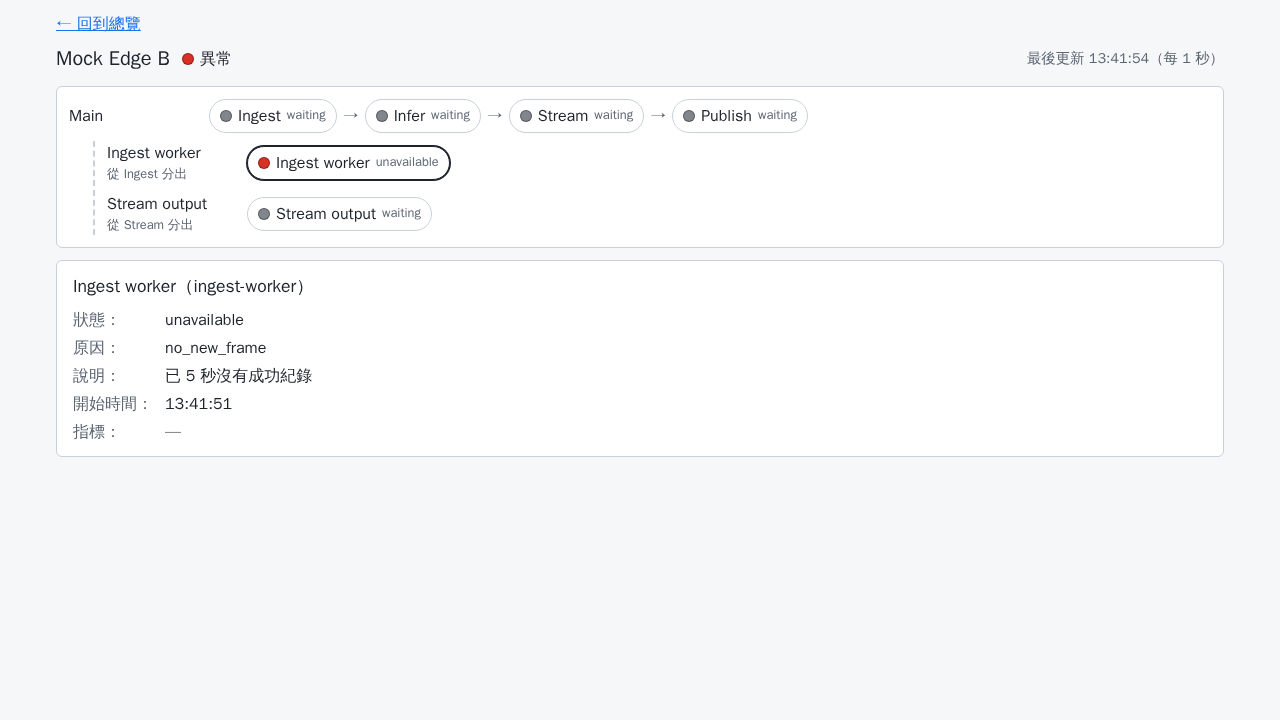
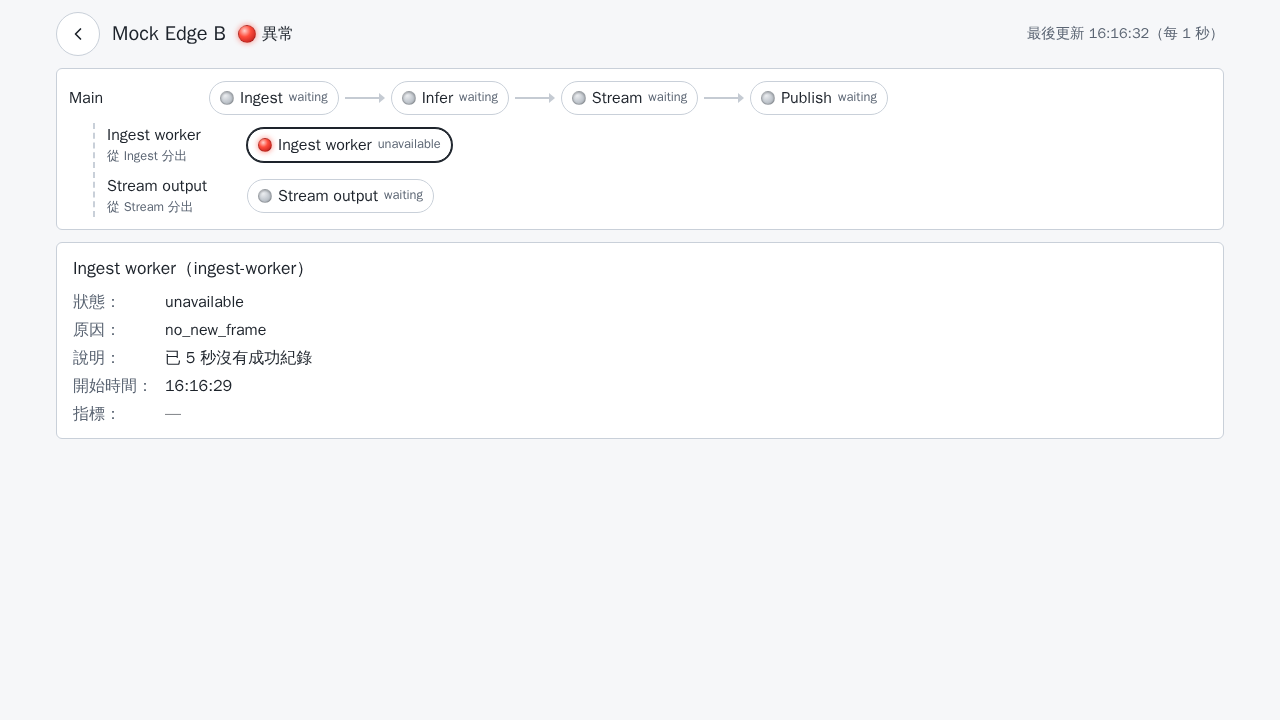
docs: v1.8 README screens, DEPLOY CSP note and regenerated screenshots

Changed region(s): [[0.0312, 0.1222, 0.9688, 0.6111], [0.0312, 0.0, 0.6875, 0.3056], [0.7812, 0.0306, 0.9375, 0.0917]]

diff --git a/README.md b/README.md
@@ -112,6 +112,15 @@ docker compose -f deploy/docker-compose.dev.yml down
 ```
 
 - 畫面以網址的 hash 區分：`#/` 是服務總覽（第 N 頁為 `#/?page=N`），`#/targets/<id>` 是服務畫面，例如 `http://127.0.0.1:18000/#/targets/mock-edge-b`。上一頁、下一頁、重新整理和書籤都能用。
+- 畫面（SPEC §7.1）：
+  - 燈號是發光的號誌風格，綠、黃、紅亮燈有光暈，灰色是沒亮的燈；狀態文字照常顯示，顏色不是唯一線索。
+  - 總覽卡片依總體狀態使用淡色底（正常白底、注意淡黃、異常淡紅、離線或等待淡灰）。
+  - 服務畫面左上角的圓形箭頭圖示是「回到總覽」。
+  - 主迴圈（`sequential` 且 2 個以上節點的 lane）全綠時，光點沿箭頭流動、經過的節點短暫變亮。系統設定減少動態效果或寬度 640px 以下時不流動。光點是裝飾，速度固定，不代表實際的處理量。
+
+| 服務總覽 | 服務畫面（正常） |
+|---|---|
+| ![服務總覽](docs/acceptance/screenshots/overview.png) | ![服務畫面](docs/acceptance/screenshots/normal.png) |
 
 - 專案名稱固定為 `smart-health-dev`，網路為 `smart-health-dev_default`。
 - 包含 `health-app`、`mock-edge-a`、`mock-edge-b`、`mock-api` 與 7 個 `raw-*`（每個 raw_mock 模式一個）。每個 service 都有 healthcheck，`--wait` 會等到全部 healthy。
@@ -138,7 +147,7 @@ docker compose -f deploy/docker-compose.dev.yml down
 - 掛載 `/var/run/docker.sock` 並加入 socket 的群組，讓測試透過 Docker Engine API 停止與恢復 `mock-edge-a`。**只用於本機與用完即丟的 CI runner（如 GitHub-hosted runner）；共用主機與自架 runner 不要掛載 Docker socket。** CI 的 `e2e` job 照用 `e2e/run.sh`，結束後用 `if: always()` 執行 `down`。
 - 只掛載 `e2e/` 與 `docs/acceptance/screenshots/`（以 `E2E_SCREENSHOT_DIR` 傳入），容器內讀不到 `.env`、`config/targets.yaml` 等其他檔案。
 - 情境切換透過 mock 的控制接口（`POST /scenario`）；情境測試用 `mock-edge-b`，停止與恢復用 `mock-edge-a`。
-- 截圖輸出到 `docs/acceptance/screenshots/`（`overview`、`normal`、`camera_down`、`offline`、`mock-api`、`mobile`、`mobile_overview`）。
+- 截圖輸出到 `docs/acceptance/screenshots/`（`overview`、`normal`、`camera_down`、`offline`、`mock-api`、`mobile`、`mobile_overview`），以 `animations: "disabled"` 截取靜態畫面，光點流動不會出現在截圖中。
 
 測試內容：
 
@@ -149,3 +158,4 @@ docker compose -f deploy/docker-compose.dev.yml down
 | `generic.spec.ts` | `mock-api` 的巢狀 lane |
 | `navigation.spec.ts` | 總覽 → 卡片 → 服務 → 回到總覽、直接開啟服務網址、找不到服務 |
 | `responsive.spec.ts` | 寬度 360px 時總覽與服務畫面都不水平捲動 |
+| `visual.spec.ts` | 發光燈號、卡片淡色底、回到總覽圖示、光點流動的條件，以及 reduced motion 與 640px 以下不流動 |
